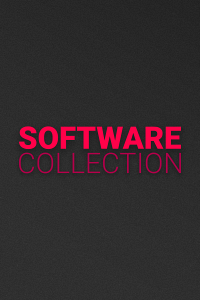
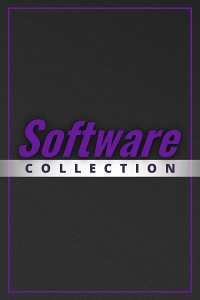
Software Collection reskinned

Changed region(s): [[0.0, 0.0, 1.0, 0.99]]

diff --git a/collection/software.html b/collection/software.html
@@ -16,19 +16,19 @@
     <a href="../index.html"><img src="../local/nav-logo.png" alt="logo"></a><div id="text"><a>click a grid to view full resolution</a></div>
   </div>
   <br><br><br><br><br>
-  <h1 id="software-h1">SOFTWARE</h1> <h2 id="software-h2">COLLECTION</h2>
+  <img src="../local/clogo1.webp" id="software-img">
   <p id="desc">This collection is made for your all your steam-launching needs. Included a template for more customization.</p>
   <div class="row">
-    <div class="col"><a href="../grids/software-collection/spotify.png"><img id="shown" data-lazy="../cdn/thumb/10.png" alt="Spotify (2006)"></a></div>
-    <div class="col"><a href="../grids/software-collection/discord.png"><img id="shown" data-lazy="../cdn/thumb/11.png" alt="Discord (2019)"></a></div>
-    <div class="col"><a href="../grids/software-collection/visual-studio-code.png"><img id="shown" data-lazy="../cdn/thumb/12.png" alt="Visual Studio Code (2016)"></a></div>
-    <div class="col"><a href="../grids/software-collection/paint-net.png"><img id="shown" data-lazy="../cdn/thumb/13.png" alt="Paint.net (2004)"></a></div>
-    <div class="col"><a href="../grids/software-collection/gimp.png"><img id="shown" data-lazy="../cdn/thumb/14.png" alt="GIMP (1996)"></a></div>
-    <div class="col"><a href="../grids/software-collection/photoscape-x.png"><img id="shown" data-lazy="../cdn/thumb/15.png" alt="Photoscape X (2019)"></a></div>
-    <div class="col"><a href="../grids/software-collection/zoom.png"><img id="shown" data-lazy="../cdn/thumb/16.png" alt="Zoom (2011)"></a></div>
-    <div class="col"><a href="../grids/software-collection/microsoft-teams.png"><img id="shown" data-lazy="../cdn/thumb/17.png" alt="Microsoft Teams (2016)"></a></div>
-    <div class="col"><a href="../grids/software-collection/shotcut.png"><img id="shown" data-lazy="../cdn/thumb/18.png" alt="Shotcut (2011)"></a></div>
-    <div class="col"><a href="../grids/software-collection/template.png"><img id="shown" data-lazy="../cdn/thumb/9.png" alt="TEMPLATE"></a></div>
+    <div class="col"><a href="../cdn/grid/10.png"><img id="shown" data-lazy="../cdn/thumb/10.png" alt="Spotify (2006)"></a></div>
+    <div class="col"><a href="../cdn/grid/11.png"><img id="shown" data-lazy="../cdn/thumb/11.png" alt="Discord (2019)"></a></div>
+    <div class="col"><a href="../cdn/grid/12.png"><img id="shown" data-lazy="../cdn/thumb/12.png" alt="Visual Studio Code (2016)"></a></div>
+    <div class="col"><a href="../cdn/grid/13.png"><img id="shown" data-lazy="../cdn/thumb/13.png" alt="Paint.net (2004)"></a></div>
+    <div class="col"><a href="../cdn/grid/14.png"><img id="shown" data-lazy="../cdn/thumb/14.png" alt="GIMP (1996)"></a></div>
+    <div class="col"><a href="../cdn/grid/15.png"><img id="shown" data-lazy="../cdn/thumb/15.png" alt="Photoscape X (2019)"></a></div>
+    <div class="col"><a href="../cdn/grid/16.png"><img id="shown" data-lazy="../cdn/thumb/16.png" alt="Zoom (2011)"></a></div>
+    <div class="col"><a href="../cdn/grid/17.png"><img id="shown" data-lazy="../cdn/thumb/17.png" alt="Microsoft Teams (2016)"></a></div>
+    <div class="col"><a href="../cdn/grid/18.png"><img id="shown" data-lazy="../cdn/thumb/18.png" alt="Shotcut (2011)"></a></div>
+    <div class="col"><a href="../cdn/grid/9.png"><img id="shown" data-lazy="../cdn/thumb/9.png" alt="TEMPLATE"></a></div>
     <div class="col"><a><img id="hidden"></a></div>
     <div class="col"><a><img id="hidden"></a></div>
   </div>

diff --git a/collection/colstyle.css b/collection/colstyle.css
@@ -28,3 +28,10 @@ img#lego-img {
   margin-bottom: -15px;
   margin-top: -15px;
 }
+img#software-img {
+  max-width: 38%;
+  opacity: 1;
+  margin-left: 0.4vw;
+  margin-bottom: -15px;
+  margin-top: -5px;
+}
